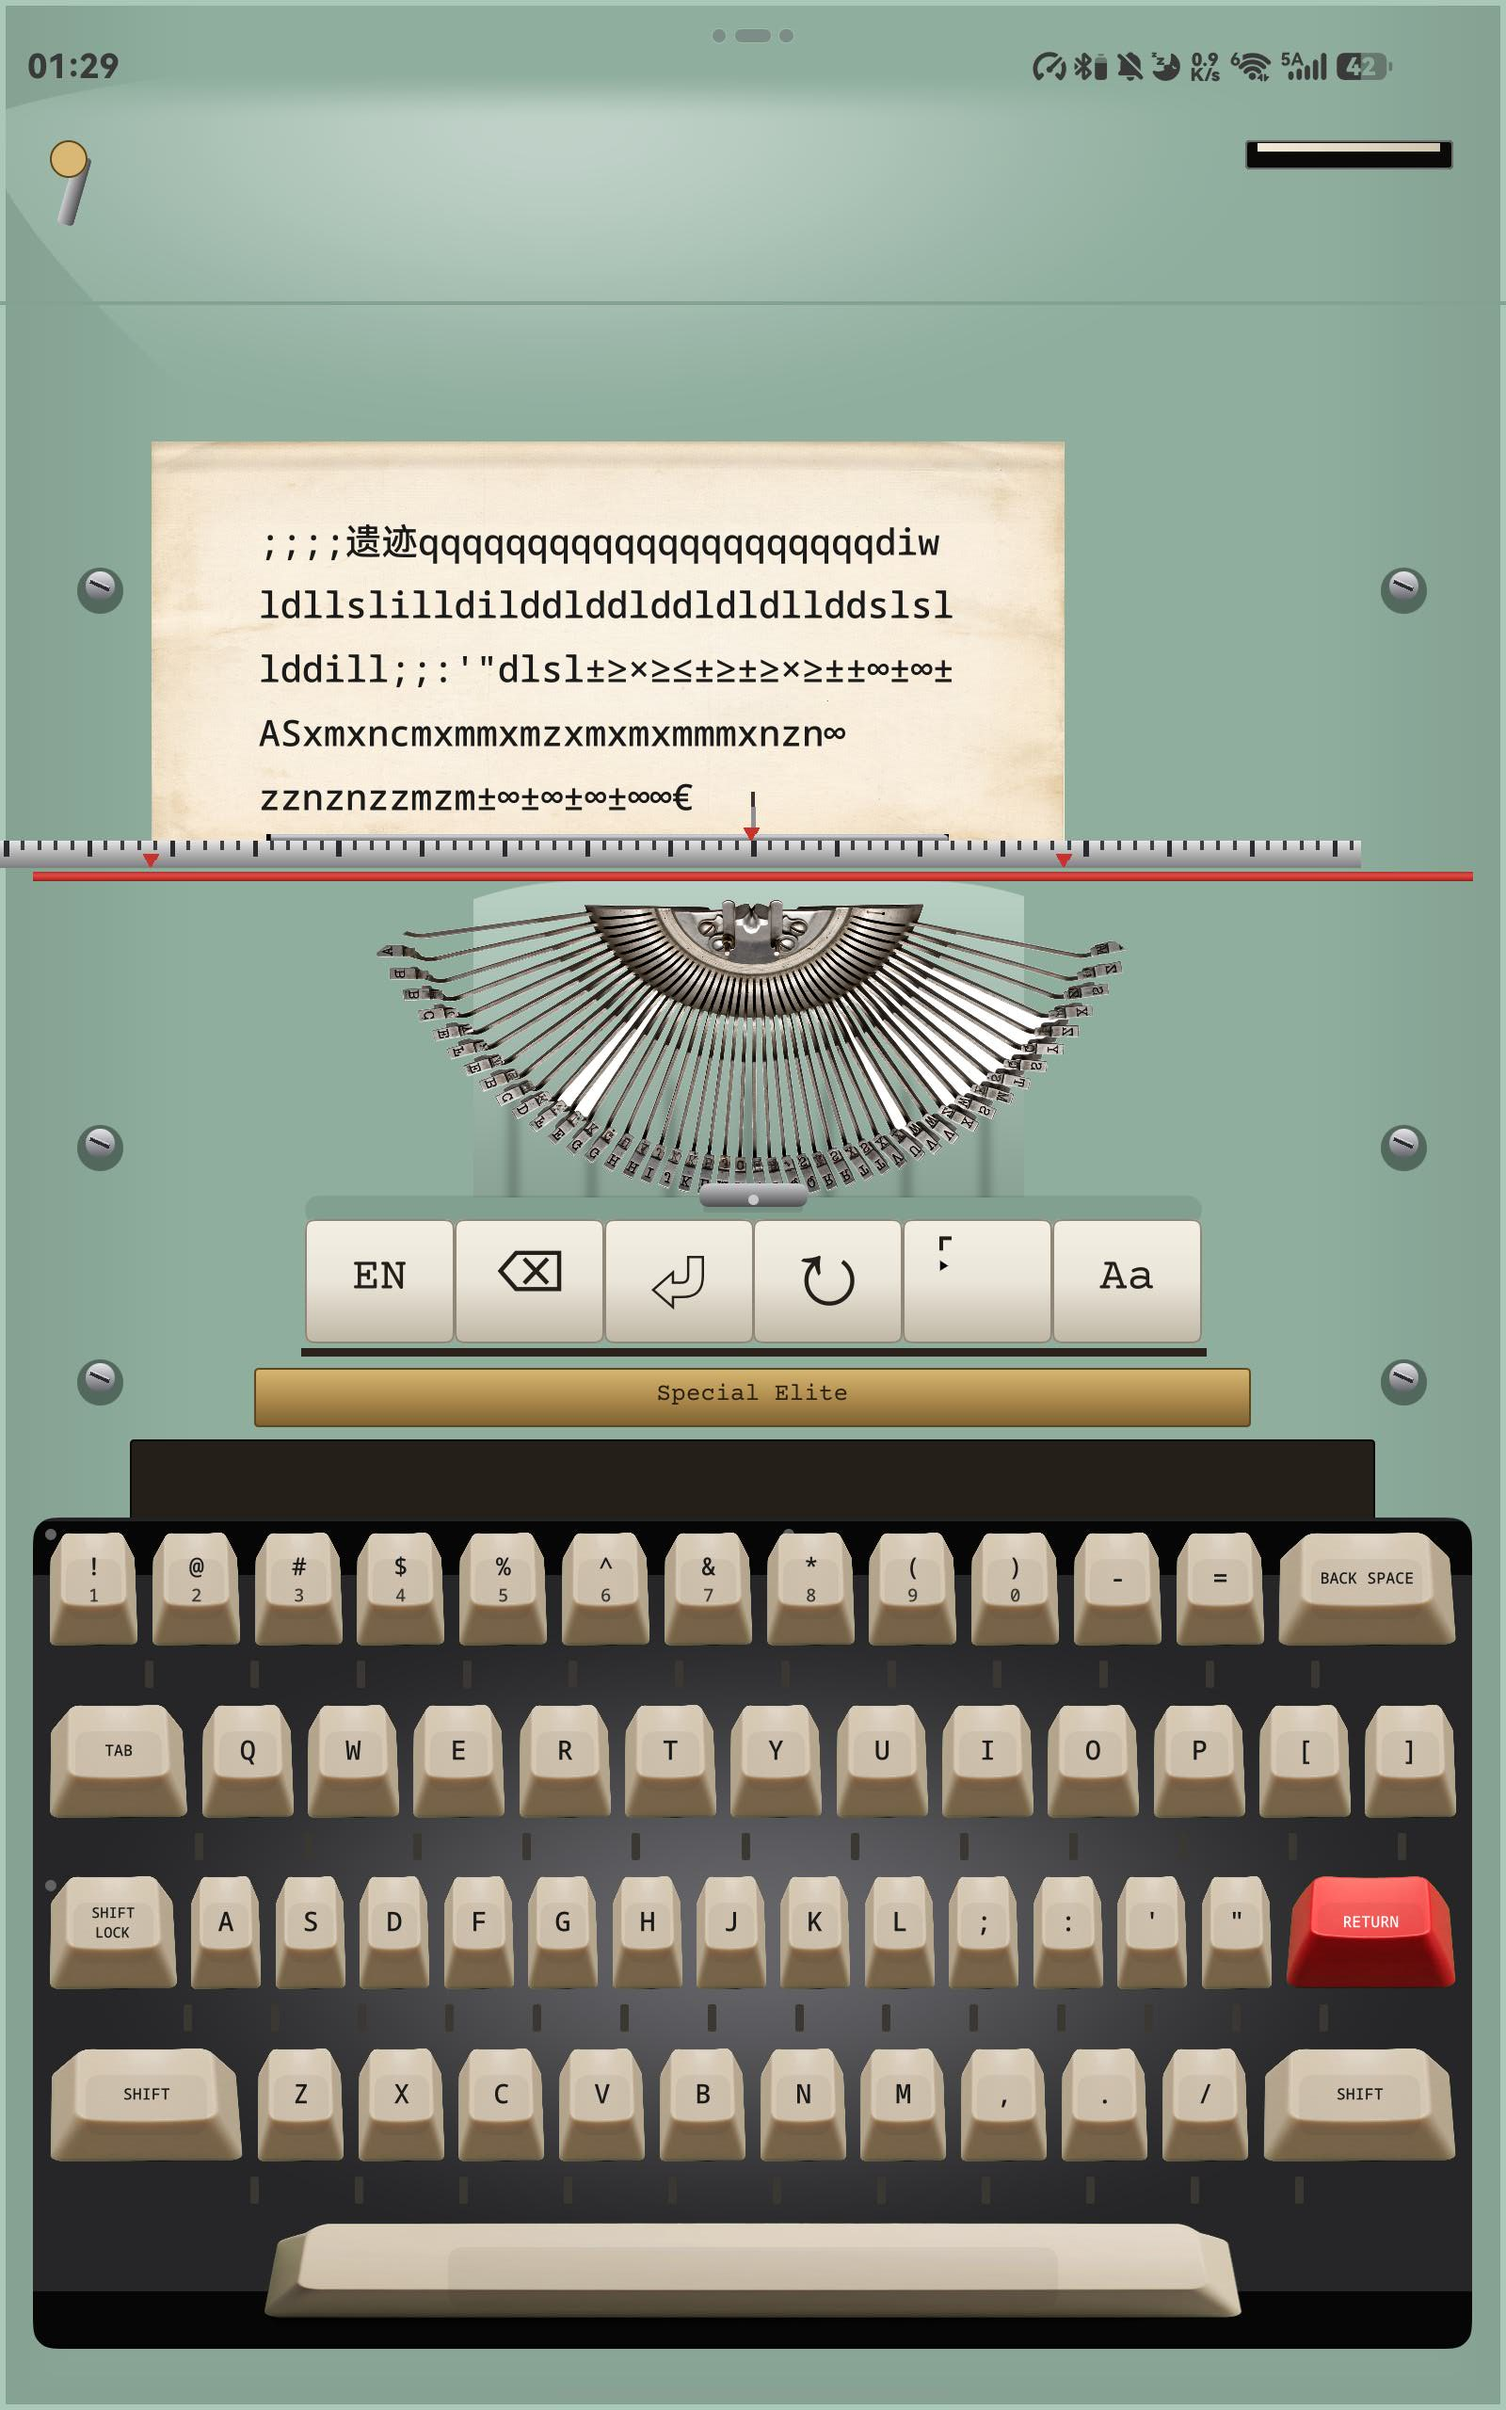
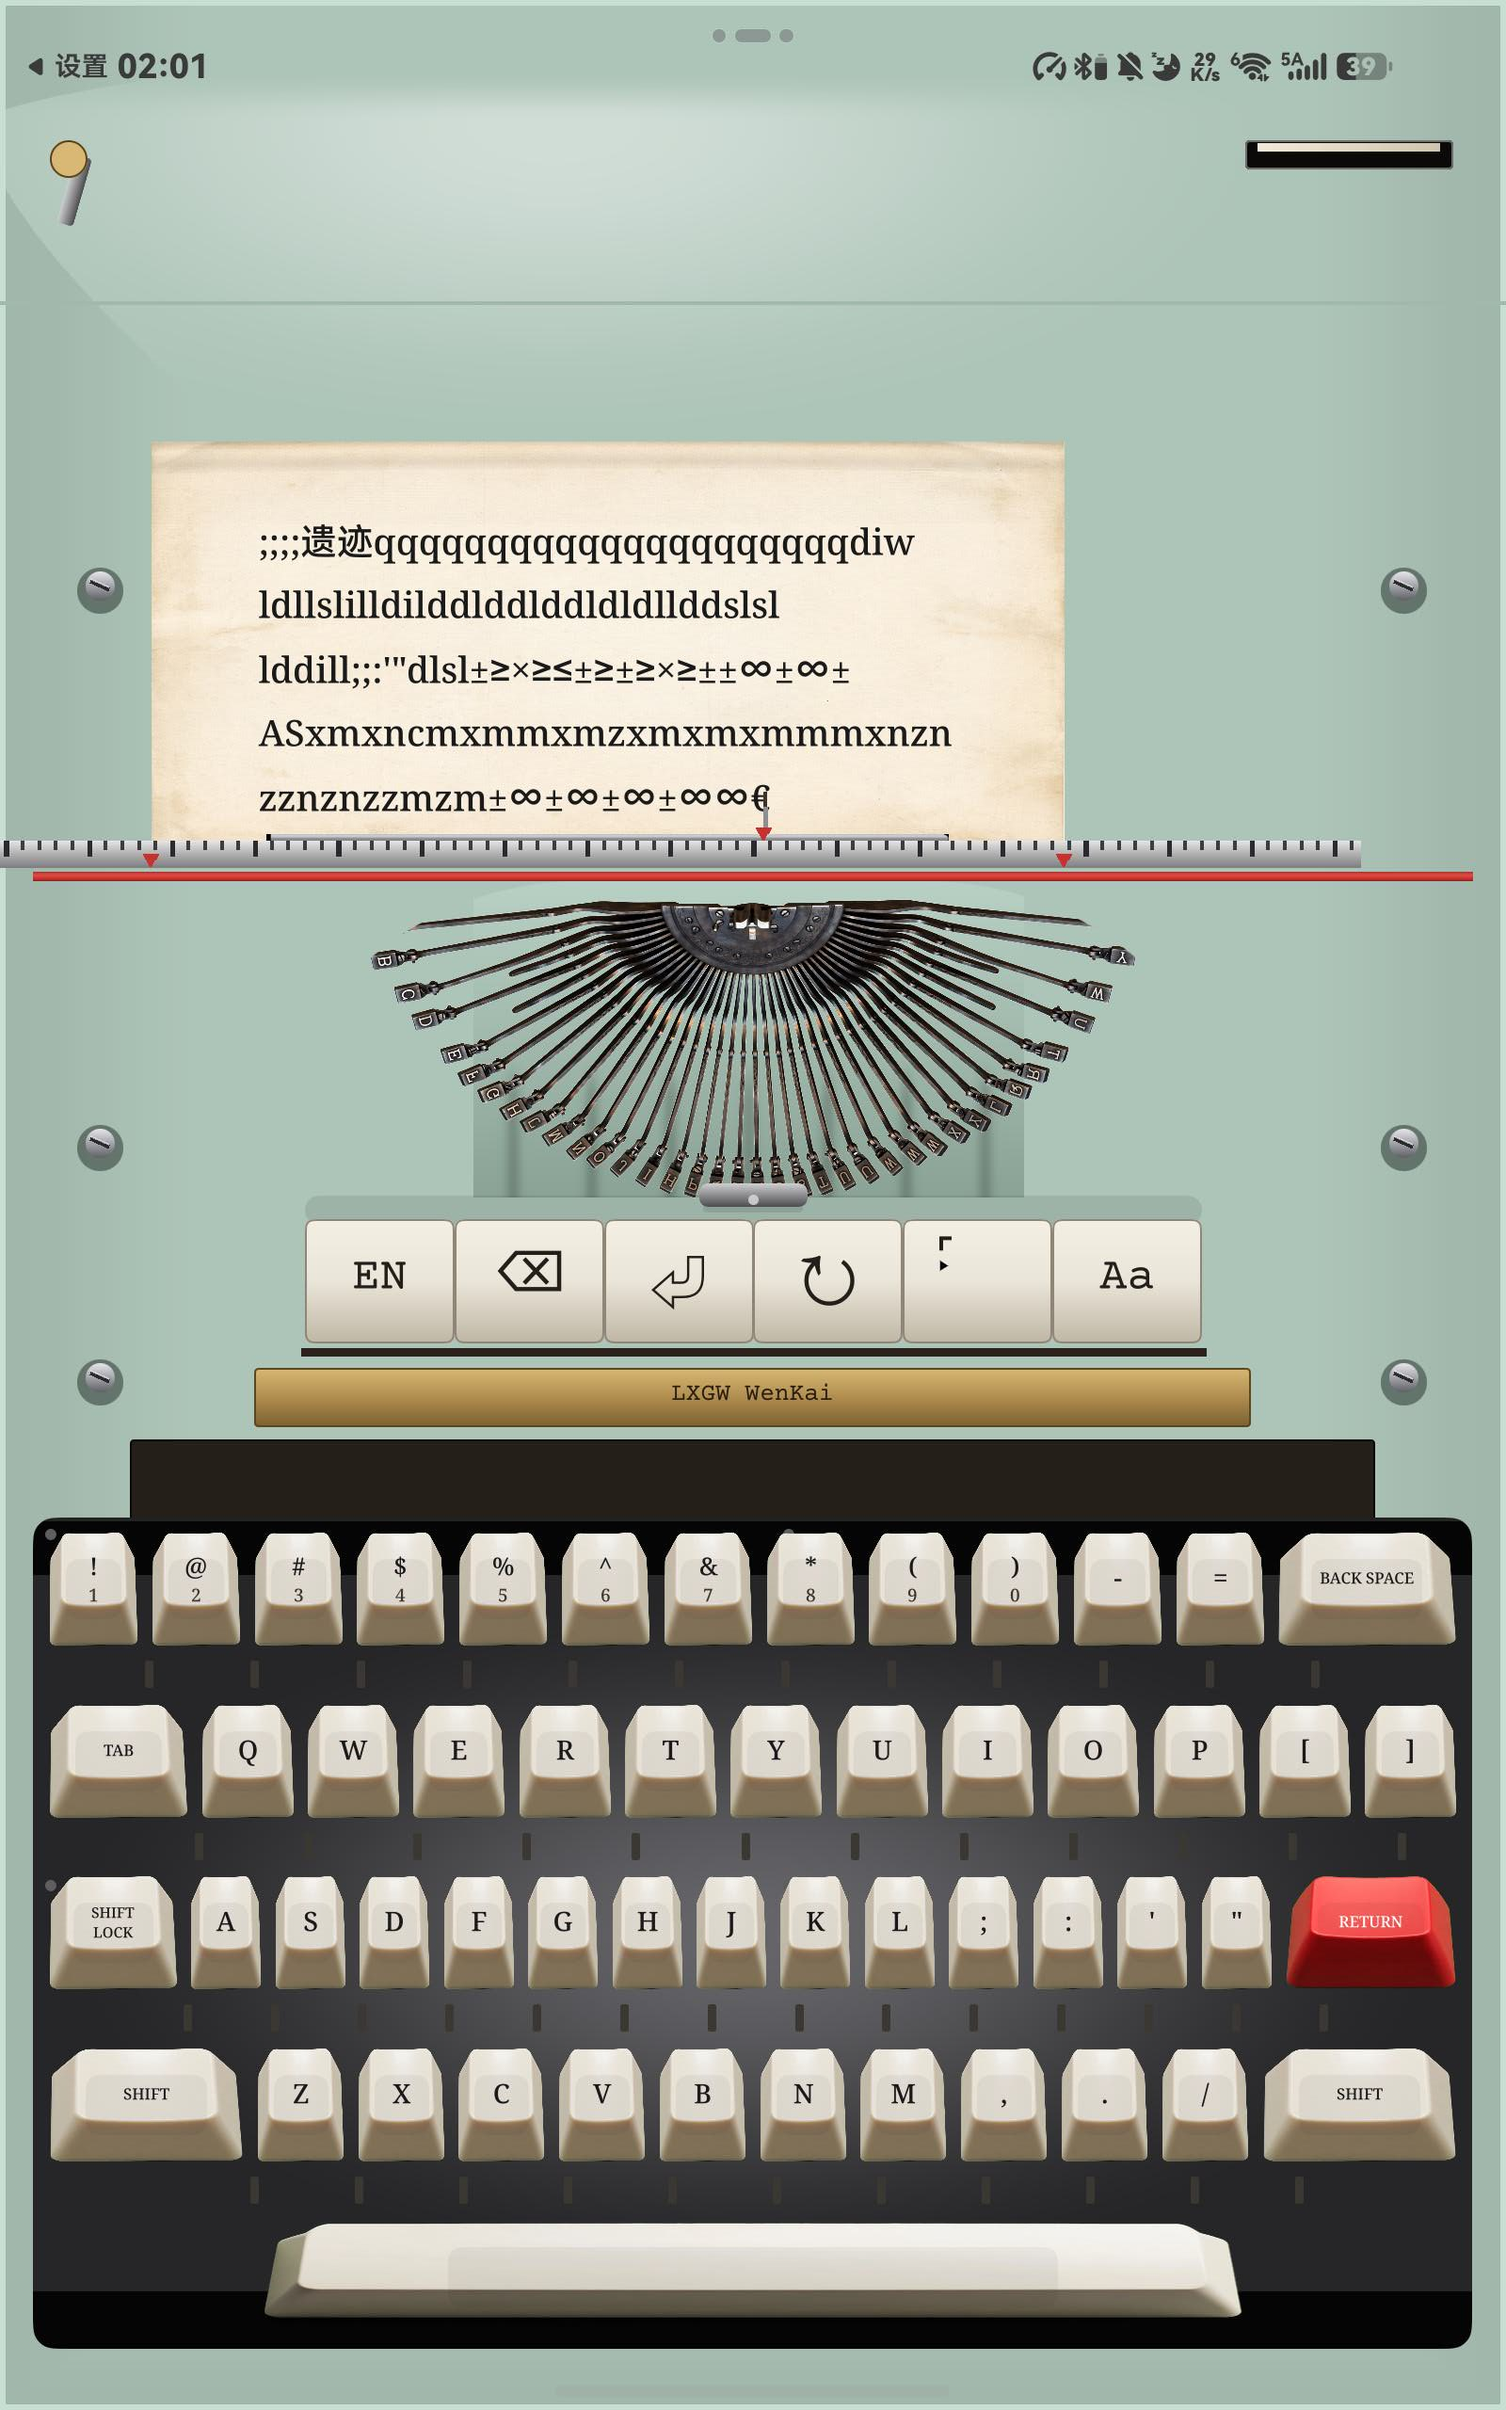
批74 补验：5 台平板打字页全部拍到 + 修键帽/主题页两个第5台接入缺口
又修两个设计稿判断有误的缺口：
  1) CustomizePage.MACHINE_LABEL 只写4台 => 主题页第5颗胶囊空文本点不到，补 '2020s-modern':'2020s'
  2) 键帽并非「已接线不改代码」：KeyGrid.capImage() 是按 machineKind 写死的 if/else（else->1960s），
     cap3dRawfile() 是死代码 => 现代机用 1960s 键帽（实测键帽区 diff 0.08%）。已补两处 MODERN_2020S 分支，
     修后 1960s vs modern 键帽区 diff 50.85%

5 台截图 2333-2337：扇区两两 85-88%（1920s vs modern 47%），键帽两两 18-52% => 四台老机可辨不同
主链：committed/回车/退格/font cycle 全通；Aa 切换未通过（diff 1.21%）如实记账
无拉伸：扇 0%（平板2.6/手机按机型查表）；键帽 Fill 拉伸约25%（批36起既有，本批未改）
未完成：手机2张、Aa回归

diff --git a/docs/evidence/p36/selfcheck.md b/docs/evidence/p36/selfcheck.md
@@ -3321,3 +3321,44 @@ awfile/keymap/2020s-modern-keymap.json 照抄 1920s，master 改 2020s-modern-ke
   只有 a force-stop + 冷启动能回主页 —— 这从侧面证实「返回按钮确实不可用」。
 - **这是用户也会遇到的可用性 bug**（进打字页后无法返回主页，只能杀 App），
   建议下一批优先修（候选：把返回按钮/顶栏提到纸之上的 z 层，或纸只在纸区内绘制、顶栏区始终可点）。
+
+**批 74 补验（第三轮）：5 台平板打字页全部拍到，扇/键帽均按机型切换**
+
+**又修了两个「第 5 台接入缺口」（设计稿判断有误，实际必须改代码）**
+1. CustomizePage.MACHINE_LABEL 只写 4 台 → 主题页第 5 颗胶囊是**空文本、点不到**。
+   补 '2020s-modern': '2020s'。
+2. **键帽根本不是「已接线、不改代码」**：KeyGrid.capImage() 是按 machineKind 写死的 if/else 字面量
+   （3 分支 + lse→cap3d-1960s.png），cap3dRawfile() 的 slug 拼接是**死代码**。
+   现代机落到 else ⇒ 用 1960s 键帽（实测键帽区 diff 仅 0.08%）。已在空格与普通键两处补 MODERN_2020S 分支。
+
+**5 台平板打字页（截图 2333–2337，走主题页机型胶囊按 rect 精确点选）**
+| 图 | 机型 | 扇区 vs 其它机（PIL diff>8） | 键帽区 vs 其它机 |
+|---|---|---|---|
+| 2333 | 1920s | 85–88% vs 1930s/1950s/1960s；47% vs modern | 50%+ |
+| 2334 | 1930s | 85–88% vs 1950s/1960s；88% vs modern | 47–50% |
+| 2335 | 1950s | 85–86% vs 1960s；87% vs modern | 18–51% |
+| 2336 | 1960s | 88% vs modern | 28–52% |
+| 2337 | modern | **修复键帽分支后 vs 1960s 键帽区 50.85%**（修复前 0.08%） | — |
+
+⇒ 四台老机扇图**两两可辨不同**（85%+，1920s vs modern 47%），键帽也各不相同 ✔
+
+**主链回归（2337 现场）**
+- committed ch=[q] ✔；回车 paperTop 152.6→124.0、paperBox 252.6→281.2 ✔；
+  退格回 152.6／252.6 ✔；ont cycle -> CourierPrime (idx 0/17) ✔
+- **Aa／字母-符号切换：未验证通过** —— 点 Aa 前后键盘区 diff 仅 **1.21%**，疑似点击未命中原键位或动画中间态；
+  本轮未深挖，如实记账。
+
+**无拉伸（逐件）**
+| 件 | 原图 | 图比 | 盒比 | 误差 |
+|---|---|---|---|---|
+| 平板宽扇 4 台 | 2496×960 | 2.600 | 2.6 | **0%** |
+| 手机扇 1920s | 1864×1091 | 1.7082 | 1.7082（查表） | **0%** |
+| 手机扇 1930s | 1891×1041 | 1.8165 | 1.8165 | **0%** |
+| 手机扇 1950s | 1865×1159 | 1.6091 | 1.6091 | **0%** |
+| 手机扇 1960s | 1600×1314 | 1.2177 | 1.2177 | **0%** |
+| 现代机（平板/手机） | 2496×960 / 1904×1129 | 2.6 / 1.686 | 2.6 / 1.69 | 0% / 0.2% |
+| **键帽** | 503×512 | **0.982** | **0.783**（21.6×27.6） | **约 25%（既有 Fill 拉伸，批 36 起如此，本批未改）** |
+
+**未完成**
+- 手机 2 张抽查（本轮时间用尽；手机基线长期暂缓）
+- Aa／字母-符号切换回归（见上，1.21% 未通过）
